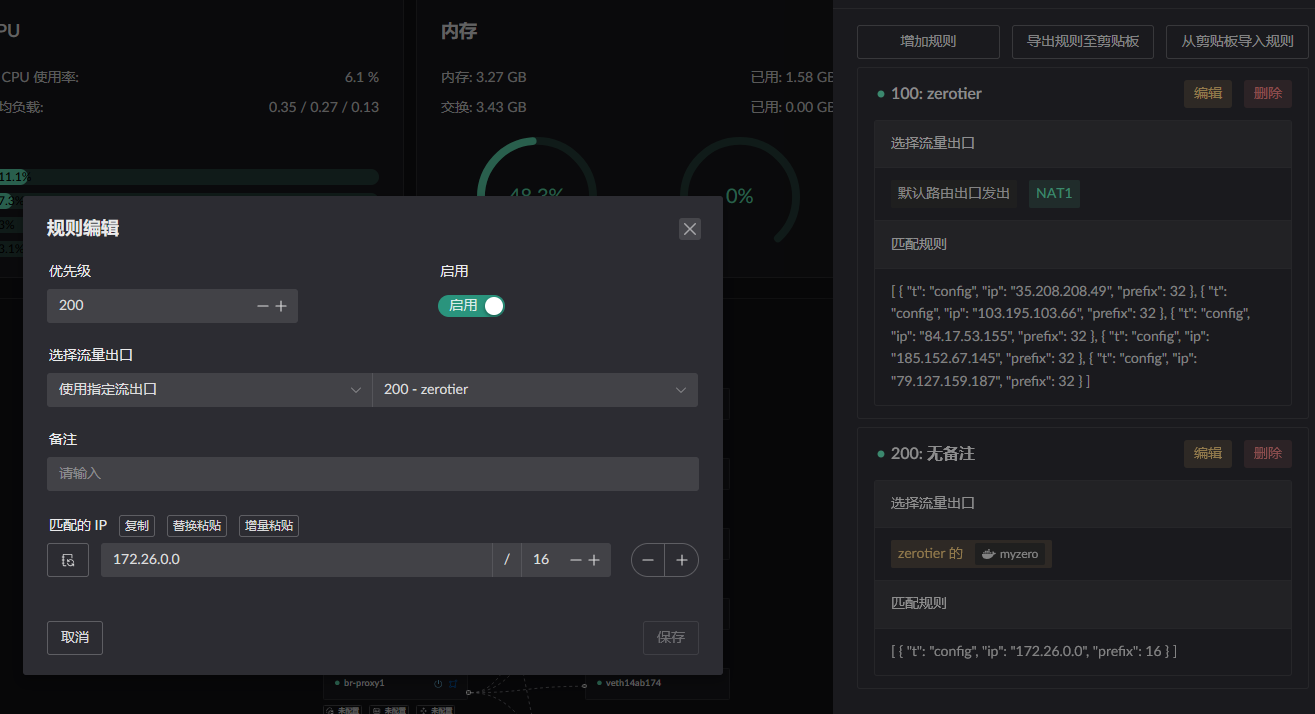
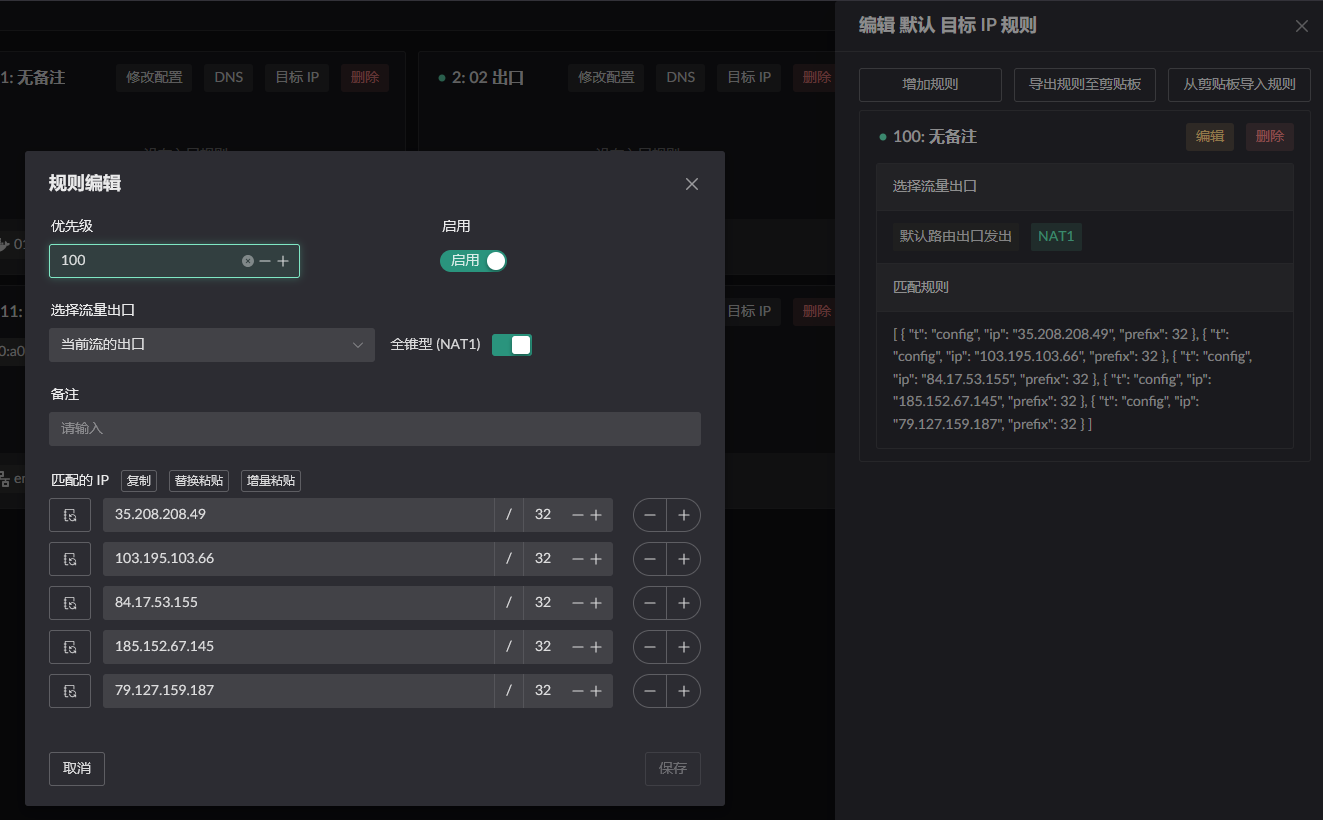
docs: Update ZeroTier deployment instructions

diff --git a/docs/other-features/overlay/zerotier.md b/docs/other-features/overlay/zerotier.md
@@ -1,55 +1,75 @@
-# Zerotier
-首先从 gtihub 下载 handler
-这边使用 x86 作为例子
-```shell
-https://github.com/ThisSeanZhang/landscape/releases/latest/download/redirect_pkg_handler-x86_64
+# ZeroTier
+ZeroTier 的部署使用的步骤大致如下:
+1. 开启 NAT1 映射
+2. 启动 ZeroTier 容器, 并以此容器为出口创建一个 Flow.
+3. 设置路由让内网中的程序可以访问 ZeroTier 中的 IP / 网段.
+
+## 设置 NAT1
+主要有以下两种方式可进行 FullCone NAT (NAT1), 任选一种配置方式就行.
+1. 将 ZeroTier 使用的端口（`9993`）, 配置静态 NAT.
+2. 将 ZeroTier 使用的 `PLANET` 添加到 IP 规则中. 并开启 NAT1 开关.
+
+以上两种方式都只在容器所属的 `网桥` 开启 `Lan 路由转发服务` 时才生效. 如下图.
+![](./zerotier-img/1.png)
+
+> 静态NAT配置 (内网目标端口为容器端口, IP 为容器 IP)
+![](./zerotier-img/2.png)
+
+> IP 规则配置 (注意是在 `默认流` 的 `目标 IP 规则` 中进行配置, 假设你没有将该容器的 MAC 或者 IP 配置为某个流的入口)
+![](./zerotier-img/3.png)
+可复制下列 JSON 并粘贴到规则中
+>```json
+>  [
+>    {
+>      "t": "config",
+>      "ip": "35.208.208.49",
+>      "prefix": 32
+>    },
+>    {
+>      "t": "config",
+>      "ip": "103.195.103.66",
+>      "prefix": 32
+>    },
+>    {
+>      "t": "config",
+>      "ip": "84.17.53.155",
+>      "prefix": 32
+>    },
+>    {
+>      "t": "config",
+>      "ip": "185.152.67.145",
+>      "prefix": 32
+>    },
+>    {
+>      "t": "config",
+>      "ip": "79.127.159.187",
+>      "prefix": 32
+>    }
+>  ]
+>```
+
+
+## 启动容器
+::: warning
+网桥中的名称一定要设置 !!!
+```yaml
+networks:
+  my-zerotier-bridge:
+    driver: bridge
+    driver_opts:
+      # 一定要设置, 否则默认会使用动态网卡名称, 重启后网卡名称变动导致 LAN 服务不能正常开启
+      com.docker.network.bridge.name: zero-br0
 ```
-在目录下创建 Dockerfile
-```Dockerfile
-FROM zerotier/zerotier:1.14.2
+:::
 
-COPY ./redirect_pkg_handler /redirect_pkg_handler
-RUN chmod +x /redirect_pkg_handler
+使用 [apps](https://github.com/landscape-router/landscape-apps) 仓库编译的[镜像](https://github.com/landscape-router/landscape-apps/pkgs/container/landscape-apps%2Fzerotier)进行启动容器. 下方展示的 compose 配置可能过时, 最新配置文件请访问 [docker-compose](https://github.com/landscape-router/landscape-apps/blob/main/zerotier/docker-compose.yaml).
 
-COPY start.sh /start.sh
-RUN chmod +x /start.sh
-
-ENTRYPOINT ["/start.sh"]
-```
-`start.sh`的内容为
-```bash
-#!/bin/sh
-set -e
-
-# 启动接应程序
-echo "[redirect_pkg_handler] starting..."
-/redirect_pkg_handler -m route &
-
-# 调用原本的 entrypoint.sh 并传递所有参数
-echo "[zerotier entrypoint] starting..."
-exec /entrypoint.sh "$@"
-
-```
-当前的文件夹下有以下内容
-```text
-tree
-.
-├── Dockerfile
-├── redirect_pkg_handler
-└── start.sh
-```
-
-然后执行，进行编译镜像
-```shell
-docker build -t <标签名称> .
-```
-
-得到该镜像，然后创建如下 compose 文件
+然后按照你的 compose 配置进行启动即可.
 
 ```yaml
 services:
   zerotier:
-    image: <标签名称>
+    image: ghcr.io/landscape-router/landscape-apps/zerotier:latest
     container_name: myzero
     restart: unless-stopped
     cap_add:
@@ -59,64 +79,32 @@ services:
       - PERFMON
     devices:
       - /dev/net/tun
-    command: <填你的网络ID>
+    command: ${NETWORK_ID}
     sysctls:
       net.ipv4.ip_forward: "1"
       net.ipv6.conf.all.forwarding: "1"
     volumes:
-      - <zerotier 持久化路径>:/var/lib/zerotier-one
+      - ${DATA_PATH}:/var/lib/zerotier-one
       - /root/.landscape-router/unix_link/:/ld_unix_link/:ro
     networks:
       my-zerotier-bridge:
-        ipv4_address: 172.199.0.10  # 可选指定容器 IP
+        ipv4_address: 10.101.1.10
     dns:
-      - 172.199.0.1
+      - 10.101.1.1
 
 networks:
   my-zerotier-bridge:
     driver: bridge
     driver_opts:
+      # 一定要设置, 否则默认会使用动态网卡名称, 重启后网卡名称变动导致 LAN 服务不能正常开启
       com.docker.network.bridge.name: zero-br0
     ipam:
       config:
-        - subnet: 172.199.0.0/16
-          gateway: 172.199.0.1
-
-```
-需要在默认流中设置 zerotier NAT1 开放(不打开 NAT1 将只能使用中继模式), 可将以下复制粘贴到规则中即可. IP 可能会变动, 之后应该是会维护一个字典
-```json
-[
-  {
-    "t": "config",
-    "ip": "35.208.208.49",
-    "prefix": 32
-  },
-  {
-    "t": "config",
-    "ip": "103.195.103.66",
-    "prefix": 32
-  },
-  {
-    "t": "config",
-    "ip": "84.17.53.155",
-    "prefix": 32
-  },
-  {
-    "t": "config",
-    "ip": "185.152.67.145",
-    "prefix": 32
-  },
-  {
-    "t": "config",
-    "ip": "79.127.159.187",
-    "prefix": 32
-  }
-]
+        - subnet: 10.101.1.0/24
+          gateway: 10.101.1.1
 ```
 
-![](./zerotier-img/1.png)
-
-成功后可见
+容器启动成功后可见.
 ```
 docker exec <容器名称> zerotier-cli peers
 200 peers
@@ -128,12 +116,16 @@ cafe80ed74 -      PLANET   192 DIRECT   25175    29795    185.152.67.145/9993
 cafefd6717 -      PLANET   137 DIRECT   172      25038    79.127.159.187/9993
 ```
 
-然后创建一个新流, 将 zerotier 的容器设置该流的出口.
-![](./zerotier-img/2.png)
+然后创建一个 Flow 并使用这个容器作为出口. 
+![](./zerotier-img/4.png)
 
 
-然后在默认流, 将 zerotier 网段的数据传到 zerotier 容器中. 
-![](./zerotier-img/3.png)
+## 配置 "路由" 规则
+点击相应 Flow 的 `目标 IP` 按钮进行配置. 只有添加相应规则的 Flow 才会生效.
+![](./zerotier-img/5.png)
+
+比如我当前 LAN 客户端的 MAC 地址是 `00:a0:98:27:41:47`, 这个客户端当前被 `Flow 11` 规则所管理. 所以我需要在 `Flow 11` 的 `目标 IP` 进行配置. 并选择流量的出口为刚刚启动容器时创建的 `Flow 21`.
+![](./zerotier-img/6.png)
 
 除此之外要记得
 ```text
@@ -141,12 +133,32 @@ docker exec <容器名称> ip add
 ...
 3: zt6jy55lqy: <BROADCAST,MULTICAST,UP,LOWER_UP> mtu 2800 qdisc fq_codel state UNKNOWN group default qlen 1000
     link/ether d6:46:9c:3c:ed:45 brd ff:ff:ff:ff:ff:ff
-    inet 172.26.41.197/16 brd 172.26.255.255 scope global zt6jy55lqy
+    inet 172.26.161.171/16 brd 172.26.255.255 scope global zt6jy55lqy
        valid_lft forever preferred_lft forever
     inet6 fe80::d446:9cff:fe3c:ed45/64 scope link 
        valid_lft forever preferred_lft forever
 ```
-将你的 内网 (我这是 `10.1.1.0/24`) 配置到 zerotier 中, via 字段填的是 上方查询到的 容器内的 IP `(172.26.41.197)`
-![](./zerotier-img/4.png)
+将你的 内网 (我这是 `10.10.10.0/24`) 配置到 zerotier 中, via 字段填的是 上方查询到的 容器内的 IP `(172.26.161.171)`
+![](./zerotier-img/7.png)
 
 此时你再使用另一个客户端连接上, 就可以访问你的内网资源了.
+
+## 结果验证
+设备说明:
+* `设备1`: 172.26.172.71, `非` 路由部署的 `ZeroTier 客户端`
+* `设备2`: 172.26.161.171, 路由部署的 `ZeroTier 客户端`
+* `设备3`: 10.10.10.112, 路由 LAN 下的一台主机  
+
+1. 从 `设备1` ping `设备3` 通过 `设备2` 处理.
+![](./zerotier-img/8.png)
+2. 从 `设备3` ping `设备1` 通过 `设备2` 处理.
+![](./zerotier-img/9.png)
+
+## 附：ZeroTier 使用的 PLANET
+IP 规则配置中填入的 IP 地址为这些域名查询后得到的 IP  
+```text
+root-mia-01.zerotier.com  
+root-tok-01.zerotier.com  
+root-zrh-01.zerotier.com  
+root-lax-01.zerotier.com  
+```

diff --git a/docs/other-features/overlay/tailscale.md b/docs/other-features/overlay/tailscale.md
@@ -5,7 +5,7 @@ Tailscale 的部署使用的步骤大致如下:
 3. 设置路由让内网中的程序可以访问 tailscalse 中的 IP / 网段.
 
 ## 设置 NAT1
-主要有以下两种方式可进行 FullCone NAT (NAT1)
+主要有以下两种方式可进行 FullCone NAT (NAT1), 任选一种配置方式就行.
 1. 固定 tailscale 使用的端口, 并使用静态 NAT 进行开放端口.
 2. 动态 tailscale 端口, 但是需要添加 tailscale DERP 的 `域名` 或者 `IP` 到 DNS 或者 IP 规则中. 并开启 NAT1 开关.
 
@@ -16,7 +16,7 @@ Tailscale 的部署使用的步骤大致如下:
 ![](./tailscale-img/2.png)
 
 > 规则配置  
-> 还未进行实际配置, 理论上可行
+> 还未进行实际配置, 可参考 zerotier 中的配置方式.
 
 ## 启动容器
 ::: warning

diff --git a/docs/other-features/overlay/overlay-network.md b/docs/other-features/overlay/overlay-network.md
@@ -1,2 +1,4 @@
 # 虚拟组网
-你可以使用 Landscape 提供的镜像进行部署，也可以自己编译镜像进行部署。
+你可以使用 Landscape 提供的镜像进行部署，也可以自己编译镜像进行部署。  
+已经打包的镜像可以从 [landscape-router/landscape-apps packages](https://github.com/orgs/landscape-router/packages?repo_name=landscape-apps) 进行查看下载.  
+如需自行打包可参考仓库 [landscape-router/landscape-apps](https://github.com/landscape-router/landscape-apps) 自行修改即可.

diff --git a/docs/other-features/settings.md b/docs/other-features/settings.md
@@ -7,7 +7,7 @@
 ## 导出/导入 配置文件
 1、导出，获得 `landscape_init.toml` 文件  
 2、复制文件到 `.landscape-router` 目录  
-3、删除/重命名 `landscape_init.lock` 文件  
+3、删除 `landscape_init.lock` 文件  
 4、重启 landscape-router，导入完成  
 ![](../images/other-features/settings/1.png)  
 

diff --git a/docs/faq/cert_error.md b/docs/faq/cert_error.md
@@ -1,0 +1,5 @@
+# 您的连接不是私密连接
+
+当访问网页时出现下方图片情况时, 可能是因为当前主机的 IPv4 与 IPv6 的分流情况不一致导致的.   
+可能的情况是流入口 `仅配置了 IPv4` , 将入口配置从 IPV4 改为使用 `MAC 地址匹配` 可解决.
+![](./cert-img/1.png)
